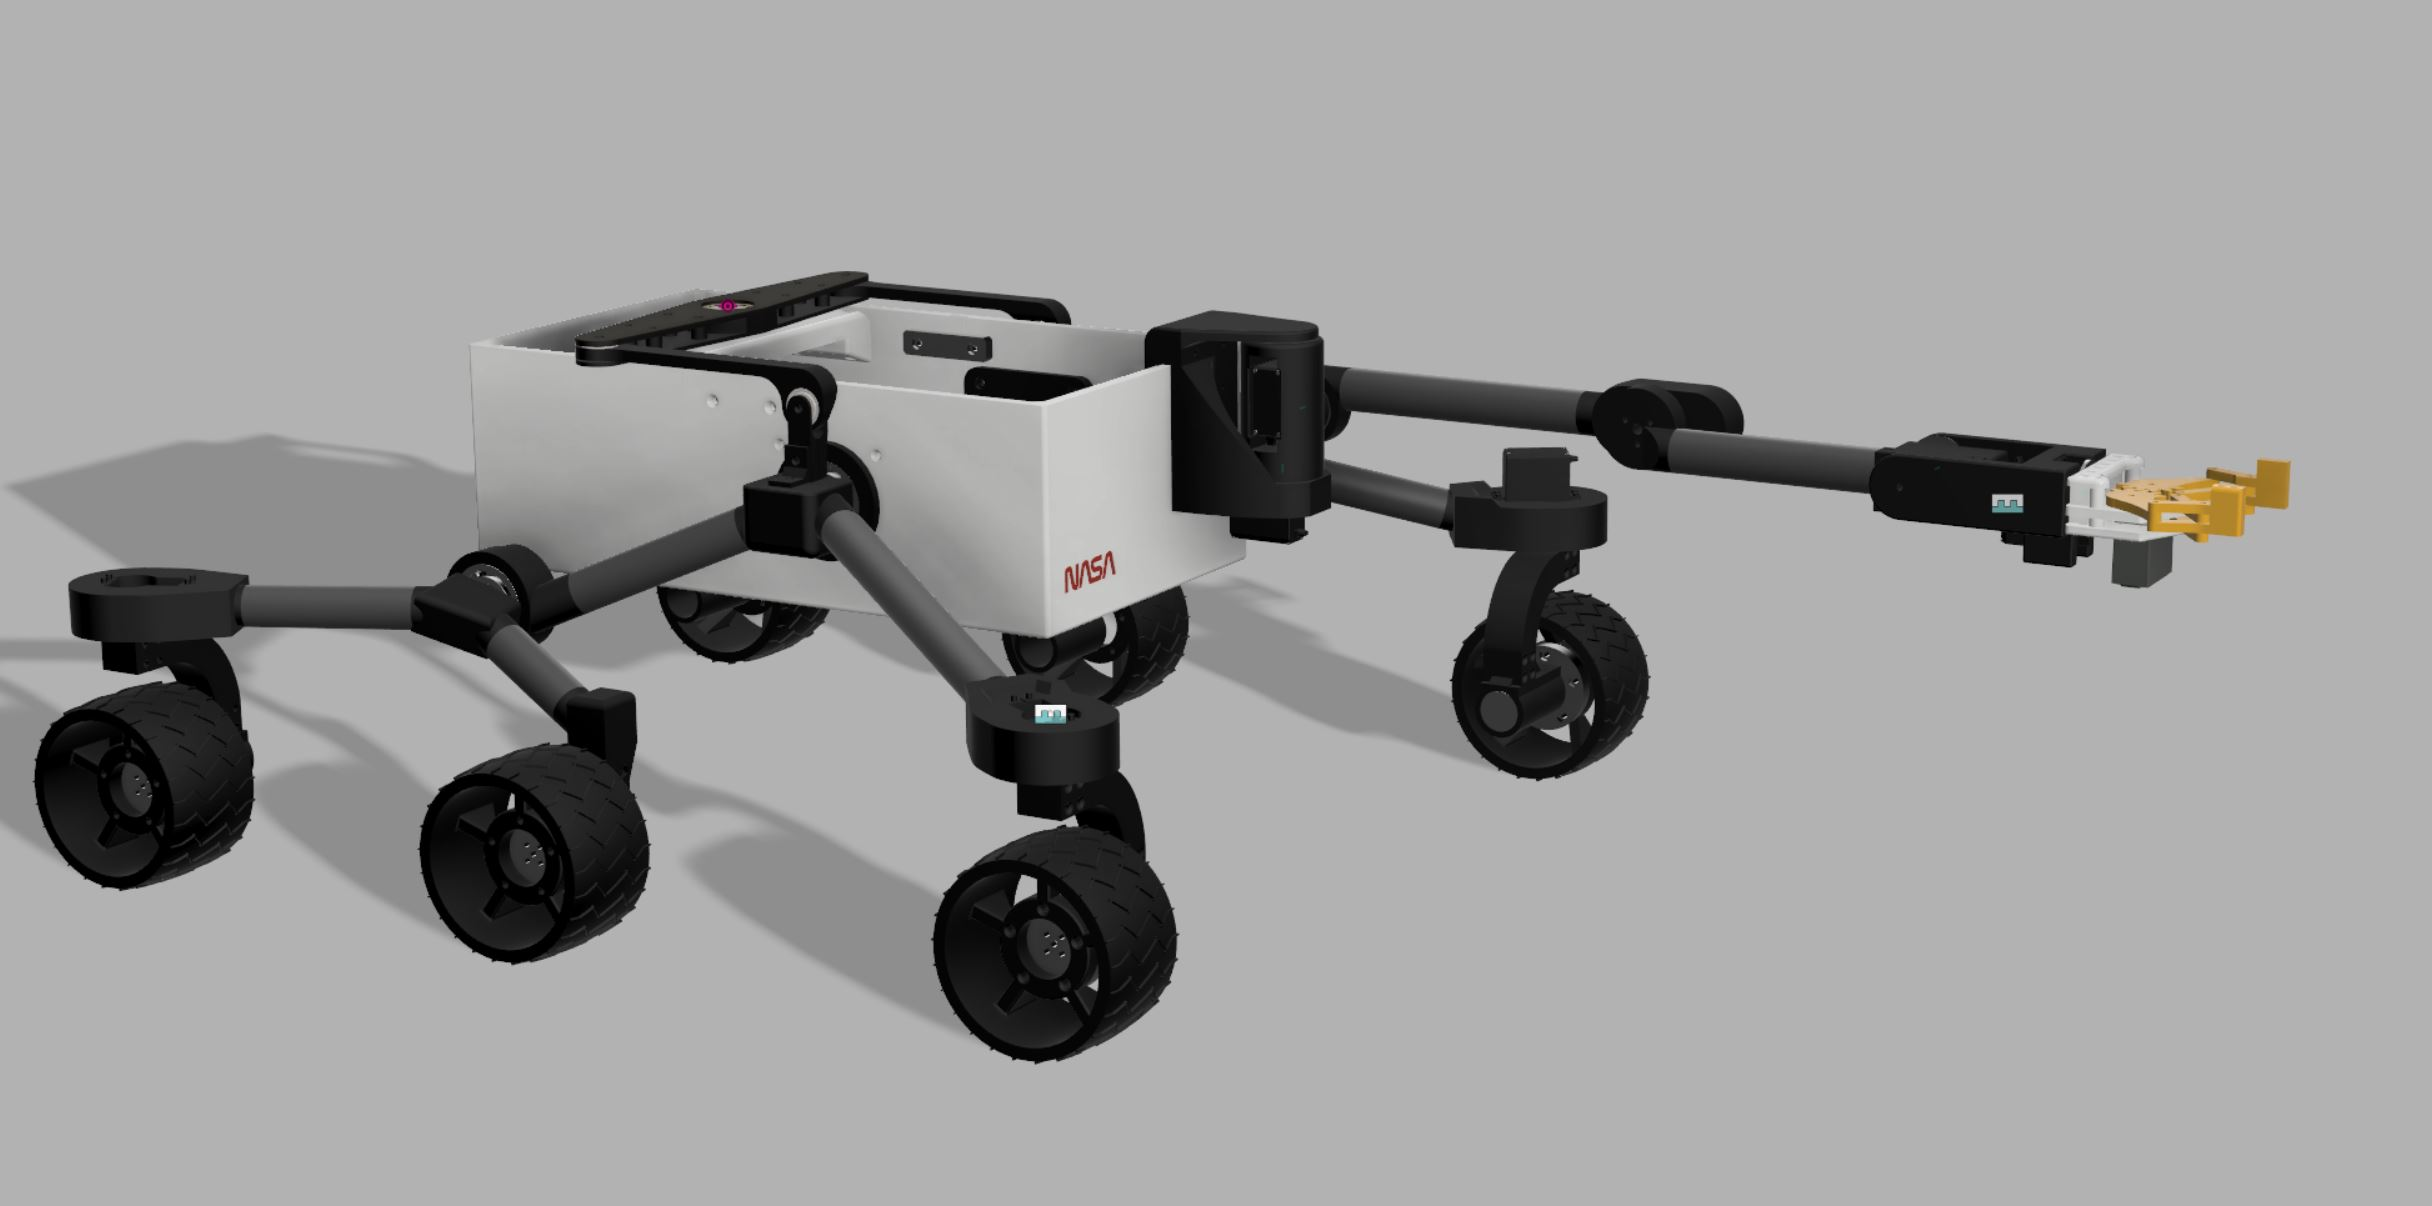
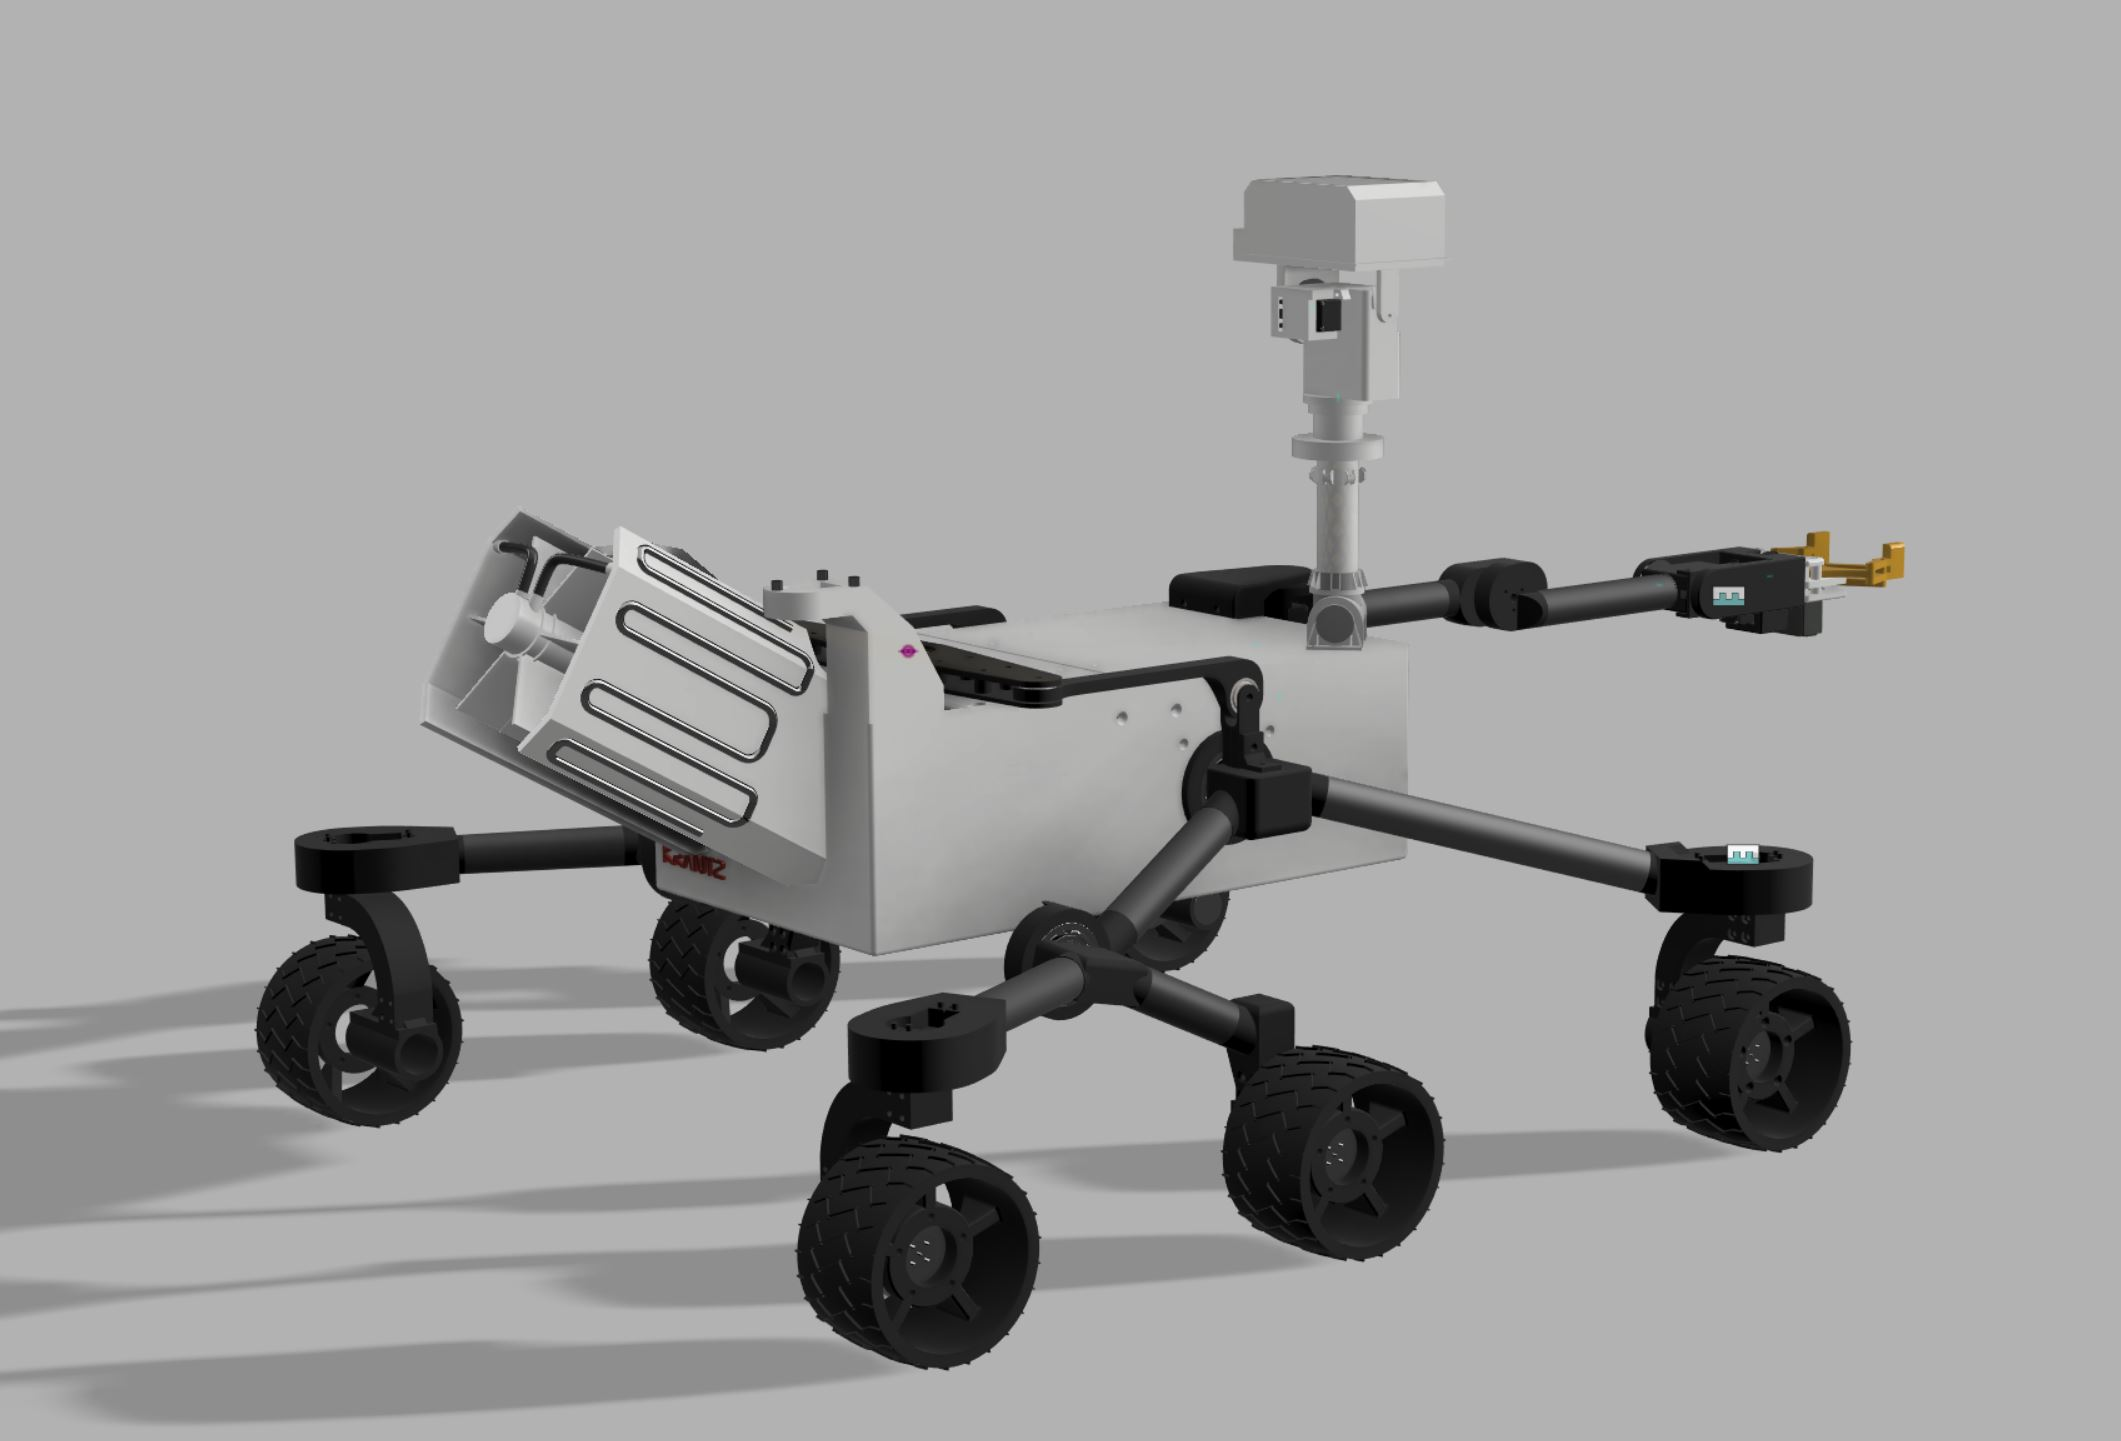
Updade READ me and some new photos.

diff --git a/README.md b/README.md
@@ -3,6 +3,8 @@
 The whole Fusion 360 project can be found in the CAD folder, download the .f3z file and open it in desktop Fusion 360. There is also a STEP file in the same folder, however I did not export a .step file fo each part.
 
 ## Driving modes
+There are two ways to drive the rover. Either using a RC controller or from a website hosted on the ESP32.
+RC controller is deafult, but as soon as someone connects to the ESP32 AP and a websocket is created, the RC controller will be overriden by the WiFi controller. The website functionality is just as basic as the RC controller right now, but the plan is to add more advanced functionality to the website which is not possible to do on the RC controller.
 On the RC Transmitter I use two joysticks for channels 1-4 for, and two switches for channel 5-6.
 Joysticks are used both for steering the Rover and for moving each axis of the arm.
 When switch1 is:
@@ -19,24 +21,29 @@ Currently arm is just pretty much mapped to controls on the RC Controller, this 
 - Lots of (12, one for each servo) 12V to 5V switching voltage regulators
 - 4 servos (MG946R) on each corner wheel to steer.
 - 6 Servos in the arm for 6-DOF. Poweded by a 3S battery. 
+- 2 servos (MG946R) for the head.
 - 6 Channel RC receiver and transmitter
-- MCU
+- MCU (ESP32)
 - 3S battery
 - Lots of screws and bolts, mostly M3, but some M4's too.
 - Two kinds of bearings: 5x 608ZZ and 5x 25mm SKF 6005
 - Check the Fusion360 project for more details.
-- Cable madness is TODO to fix
+- Cable madness is TODO to fix (temporary fixed by hiding it under the "lid")
+
 ## Images
 Videos:
 - Showing the boogie mechanism in action [https://imgur.com/4UIsRLl](https://imgur.com/4UIsRLl) 
 - Arm [https://imgur.com/KY5ioLb](https://imgur.com/KY5ioLb)
 <img src="/.github/1.jpg "/>
 <img src="/.github/2.jpg "/>
+<img src="/.github/full.jpg "/>
 <img src="/.github/arm.jpg" width="420" />
 <img src="/.github/4.jpg "/>
 <img src="/.github/parts.jpg "/>
-<img src="/.github/render.jpg" />
 <img src="/.github/cad.png" />
+<img src="/.github/cad_capture.png" />
+<img src="/.github/render.jpg" />
+<img src="/.github/wifi_controller.jpg" />
 
 ## Building
 In I2Cdevlib-MPU6050 a check for ARDUINO_ARCH_ESP32 in MPU6050_6Axis_MotionApps20.h is necessary for the project to build:
